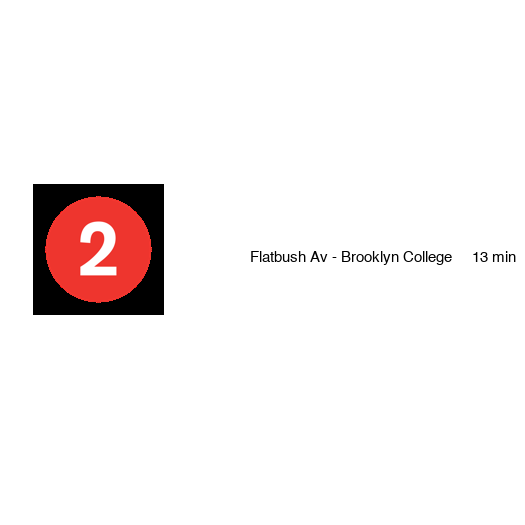
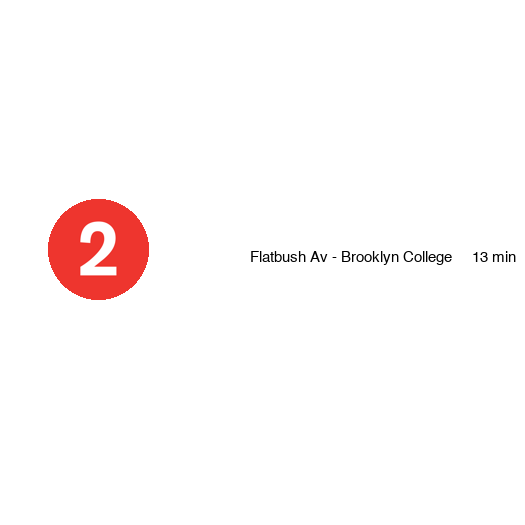
adding image masking logic to remove black bordering

Changed region(s): [[0.061, 0.3352, 0.3352, 0.6095]]

diff --git a/img/image_generator.py b/img/image_generator.py
@@ -7,6 +7,7 @@ BLACK_TEXT = (0, 0, 0)
 # y-coord is halfway the display size
 TEXT_LOCATION = (6, 8)
 RGB_MATRIX_DIMENSION = (64, 16)
+MASKING_CIRCLE = (15, 15, 115, 115)
 
 
 # TODO: I believe it may be best to stitch image first then resize to display dimensions
@@ -28,6 +29,19 @@ def generate_png_image(train_logo_fp, train_info: tuple):
     https://brooklyneagle.com/wp-content/uploads/2017/09/subway-countdown-clock-02-by-mary-frost-b.jpg
     with the exception of just containing one train departure row for now.
     """
+
+    def draw_elliptal_mask(img):
+        """
+        :param img: image object to copy size from
+        :return: an circular image object that will be used to remove the black rectangular border of train logo img
+        """
+        mask_im = Image.new("L", img.size, 0)
+        draw = ImageDraw.Draw(mask_im)
+        draw.ellipse(xy=MASKING_CIRCLE, fill=255)
+        mask_im.save('aux/mask_circle.png')
+        return mask_im
+
+
     whitespace = 5 * ' '
     info_img = Image.new(mode="RGB", size=TMP_DIMENSION,
                        color=(256, 256, 256))
@@ -40,9 +54,9 @@ def generate_png_image(train_logo_fp, train_info: tuple):
     logo_img = Image.open(train_logo_fp)
 
     #logo to take up 25% of display. May want to reduce by a higher factor to indroduce whitespacing around logo
-    logo_img = logo_img.resize((int(TMP_DIMENSION[0] * 0.25), int(TMP_DIMENSION[1] * 0.25)))
+    logo_img = logo_img.resize((int(TMP_DIMENSION[0] * 0.25), int(TMP_DIMENSION[1] * 0.25))) # == (131, 131)
 
-    info_img.paste(logo_img, PASTE_LOCATION)
+    info_img.paste(im=logo_img, box=PASTE_LOCATION, mask=draw_elliptal_mask(logo_img))
     info_img.save("./countdown_img.png")
 
 
@@ -57,4 +71,4 @@ def convert_to_ppm_image(png_image):
 if __name__ == '__main__':
     convert_to_ppm_image(
         generate_png_image(train_logo_fp = "NYCS-bull-trans-2-Std.png",
-                           train_info = ("Flatbush Av - Brooklyn College","13 min")))
+                           train_info = ("Flatbush Av - Brooklyn College", "13 min")))
